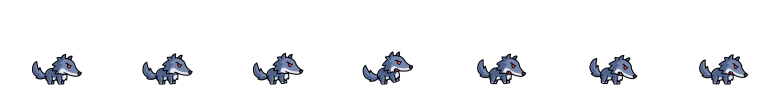
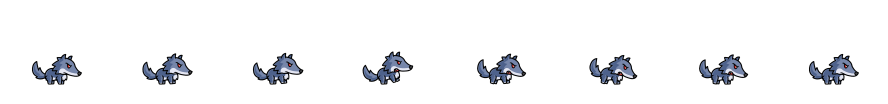
Fixed P to W transform anim, ready for tweenery

diff --git a/js/objects/player.js b/js/objects/player.js
@@ -128,7 +128,7 @@ class Player extends Phaser.GameObjects.Graphics {
 
     this.scene.anims.create({
       key: 'attackWolf',
-      frames: this.scene.anims.generateFrameNumbers('wolfRun', { start: 0, end: 7 }),
+      frames: this.scene.anims.generateFrameNames('wolfAttack'),
       frameRate: 10,
       repeat: -1
     })
@@ -136,8 +136,8 @@ class Player extends Phaser.GameObjects.Graphics {
     this.scene.anims.create({ 
       key: 'princessWolfTransform', 
       frames: this.scene.anims.generateFrameNames('princessToWolf'), 
-      frameRate: 10,
-      repeat: -1 
+      frameRate: 45,
+      repeat: 5 
     });
 
     this.snowSound = this.scene.sound.add('humanFootstepsSnowSound', { volume: 0.1, loop: true });  
@@ -249,7 +249,7 @@ class Player extends Phaser.GameObjects.Graphics {
     if ((this.playerState === PlayerState.NORMAL) && direction.x == 0 && direction.y == 0) {
       this.physicsBody.anims.play('idlePrincess', true);
     } else if (this.playerState === PlayerState.WEREWOLF && direction.x == 0) {
-      this.physicsBody.anims.play('attackWolf', true);
+      this.physicsBody.anims.play('runWolf', true);
     }
     this.doMove(direction);
   }
@@ -334,12 +334,13 @@ class Player extends Phaser.GameObjects.Graphics {
     this.doMove({x: 0, y: 0});
     
     this.physicsBody.anims.play('princessWolfTransform', true);
+    this.physicsBody.once('animationcomplete', this.beWerewolf, this)
 
-    const transformToWerewolfDurationMillis = 1000;
+    // const transformToWerewolfDurationMillis = 1000;
 
-    setTimeout(() => {
-      this.beWerewolf();
-    }, transformToWerewolfDurationMillis);
+    // setTimeout(() => {
+    //   this.beWerewolf();
+    // }, transformToWerewolfDurationMillis);
   }
 
   beWerewolf() {
@@ -355,11 +356,13 @@ class Player extends Phaser.GameObjects.Graphics {
     this.isGamePaused = true;
     const transformToHumanDurationMillis = 1000;
 
+    this.physicsBody.anims.play('princessWolfTransform', true);
+    this.physicsBody.setScale(1,1);
+
     this.playerState = PlayerState.FROM_WEREWOLF;
     this.doMove({x: 0, y: 0});
 
-    this.physicsBody.anims.play('princessWolfTransform', true);
-    this.physicsBody.anims.forward = false;
+    
     this.setCollisions(true);
     this.speed = 0;
     this.resetVillagerToConsume();

diff --git a/js/scenes/gameScene.js b/js/scenes/gameScene.js
@@ -32,7 +32,7 @@ class GameScene extends Phaser.Scene {
 
     //Wolf Animations
     this.load.spritesheet('wolfRun', '../../assets/Wolf/wolfRun.png', { frameWidth: 111, frameHeight: 104});
-    this.load.spritesheet('wolfAttack', '../../assets/Wolf/wolfRun.png', { frameWidth: 111, frameHeight: 104});
+    this.load.atlas('wolfAttack', '../../assets/Wolf/WolfAttack.png', '../../assets/Wolf/WolfAttack.json');
     this.load.atlas('princessToWolf', '../../assets/PtoW.png', '../../assets/PtoW.json');
 
     //Villager Animations    
